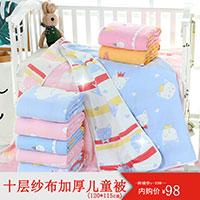
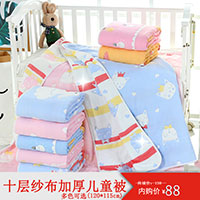
zx

Changed region(s): [[0.3, 0.96, 0.45, 1.0], [0.81, 0.9, 0.9, 0.99]]

diff --git a/quan/index.html b/quan/index.html
@@ -17,6 +17,132 @@
   <div class="m-prolist">
     <!---->
     <div class="prolist-item">
+      <a class="prolist-item-a" href="https://u.jd.com/qmD5YR">
+        <div class="prolist-cover">
+          <img src="images/blank.gif" data-echo="pics/101.jpg">
+        </div>
+        <div class="prolist-info">
+          <div class="prolist-title"><span class="jdico">JD</span>
+            美国EMSTARC旗下品牌，提拉紧肤按摩器，塑脸神器，去皱抗衰老，👊懒人甩脂机，去皱抗衰老，[红包]赠麦香水杯 
+          </div>
+          <div class="prolist-bottom">
+            <div class="prolist-grey">京东价 ¥199</div>
+            <div class="prolist-price">
+              <em class="priceicon"></em>¥<span class="int">799</span>
+            </div>
+            <div class="prolist-coupon">400元券</div>
+            <div class="time-end">结束 <span>02-22</span></div>
+          </div>
+        </div>
+      </a>
+    </div>
+    <!---->
+    <div class="prolist-item">
+      <a class="prolist-item-a" href="https://u.jd.com/rkEByV">
+        <div class="prolist-cover">
+          <img src="images/blank.gif" data-echo="pics/100.jpg">
+        </div>
+        <div class="prolist-info">
+          <div class="prolist-title"><span class="jdico">JD</span>
+            内购14元🉐纯棉打底运动女士背心，👍好评如潮，👯春夏季必备，时尚简约，百搭 性感显气质！ 
+          </div>
+          <div class="prolist-bottom">
+            <div class="prolist-grey">京东价 ¥39</div>
+            <div class="prolist-price">
+              <em class="priceicon"></em>¥<span class="int">14</span>
+            </div>
+            <div class="prolist-coupon">80元券</div>
+            <div class="time-end">结束 <span>02-23</span></div>
+          </div>
+        </div>
+      </a>
+    </div>
+    <!---->
+    <div class="prolist-item">
+      <a class="prolist-item-a" href="https://u.jd.com/aJJZG4">
+        <div class="prolist-cover">
+          <img src="images/blank.gif" data-echo="pics/099.jpg">
+        </div>
+        <div class="prolist-info">
+          <div class="prolist-title"><span class="jdico">JD</span>
+            品质剃须刀，亏本清仓，数量有限 ，便携方便，💝送男士，礼盒套装，贴合肌肤，👦不留一丝胡须，不伤一毫皮肤，三层云刀片，自由旋转！ 
+          </div>
+          <div class="prolist-bottom">
+            <div class="prolist-grey">京东价 ¥139</div>
+            <div class="prolist-price">
+              <em class="priceicon"></em>¥<span class="int">59</span>
+            </div>
+            <div class="prolist-coupon">80元券</div>
+            <div class="time-end">结束 <span>02-22</span></div>
+          </div>
+        </div>
+      </a>
+    </div>
+    <!---->
+    <div class="prolist-item">
+      <a class="prolist-item-a" href="https://u.jd.com/QkPw9F">
+        <div class="prolist-cover">
+          <img src="images/blank.gif" data-echo="pics/098.jpg">
+        </div>
+        <div class="prolist-info">
+          <div class="prolist-title"><span class="jdico">JD</span>
+            好评如潮！提速不止50%【手机无线充电】0.1秒取放💥红外线感应，适合任何车型，稳固不摇晃💞给你全新智能体验 
+          </div>
+          <div class="prolist-bottom">
+            <div class="prolist-grey">京东价 ¥228</div>
+            <div class="prolist-price">
+              <em class="priceicon"></em>¥<span class="int">138</span>
+            </div>
+            <div class="prolist-coupon">50元券</div>
+            <div class="time-end">结束 <span>02-20</span></div>
+          </div>
+        </div>
+      </a>
+    </div>
+    <!---->
+    <div class="prolist-item">
+      <a class="prolist-item-a" href="https://u.jd.com/xfe6tC">
+        <div class="prolist-cover">
+          <img src="images/blank.gif" data-echo="pics/005.jpg">
+        </div>
+        <div class="prolist-info">
+          <div class="prolist-title"><span class="jdico">JD</span>
+            6D环绕重低音，超强兼容，高清通话，入耳式，带麦适用小米vivo华为，吃鸡抖音K歌样样玩转自如
+          </div>
+          <div class="prolist-bottom">
+            <div class="prolist-grey">京东价 ¥39.9</div>
+            <div class="prolist-price">
+              <em class="priceicon"></em>¥<span class="int">19.9</span>
+            </div>
+            <div class="prolist-coupon">20元券</div>
+            <div class="time-end">结束 <span>02-23</span></div>
+          </div>
+        </div>
+      </a>
+    </div>
+    <!---->
+    <div class="prolist-item">
+      <a class="prolist-item-a" href="https://u.jd.com/K09C1W">
+        <div class="prolist-cover">
+          <img src="images/blank.gif" data-echo="pics/086.jpg">
+        </div>
+        <div class="prolist-info">
+          <div class="prolist-title"><span class="jdico">JD</span>
+            超大超厚超柔软儿童春秋盖毯，夏季空调被，纱布吸汗不油腻，👶保暖透气，面料越洗越柔软，平整面料不起球不褪色
+          </div>
+          <div class="prolist-bottom">
+            <div class="prolist-grey">京东价 ¥138</div>
+            <div class="prolist-price">
+              <em class="priceicon"></em>¥<span class="int">88</span>
+            </div>
+            <div class="prolist-coupon">50元券</div>
+            <div class="time-end">结束 <span>02-23</span></div>
+          </div>
+        </div>
+      </a>
+    </div>
+    <!---->
+    <div class="prolist-item">
       <a class="prolist-item-a" href="https://u.jd.com/JNiVR1">
         <div class="prolist-cover">
           <img src="images/blank.gif" data-echo="pics/097.jpg">
@@ -473,27 +599,6 @@
             </div>
             <div class="prolist-coupon">60元券</div>
             <div class="time-end">结束 <span>02-24</span></div>
-          </div>
-        </div>
-      </a>
-    </div>
-    <!---->
-    <div class="prolist-item">
-      <a class="prolist-item-a" href="https://u.jd.com/7plPRl">
-        <div class="prolist-cover">
-          <img src="images/blank.gif" data-echo="pics/086.jpg">
-        </div>
-        <div class="prolist-info">
-          <div class="prolist-title"><span class="jdico">JD</span>
-            超大超厚超柔软儿童春秋盖毯，夏季空调被，纱布吸汗不油腻，👶保暖透气，面料越洗越柔软，平整面料不起球不褪色
-          </div>
-          <div class="prolist-bottom">
-            <div class="prolist-grey">京东价 ¥138</div>
-            <div class="prolist-price">
-              <em class="priceicon"></em>¥<span class="int">98</span>
-            </div>
-            <div class="prolist-coupon">40元券</div>
-            <div class="time-end">结束 <span>02-22</span></div>
           </div>
         </div>
       </a>
@@ -2066,27 +2171,6 @@
               <em class="priceicon"></em>¥<span class="int">14.9</span>
             </div>
             <div class="prolist-coupon">15元券</div>
-            <div class="time-end">结束 <span>02-14</span></div>
-          </div>
-        </div>
-      </a>
-    </div>
-    <!---->
-    <div class="prolist-item" style="display:none">
-      <a class="prolist-item-a" href="https://u.jd.com/bwBonE">
-        <div class="prolist-cover">
-          <img src="images/blank.gif" data-echo="pics/005.jpg">
-        </div>
-        <div class="prolist-info">
-          <div class="prolist-title"><span class="jdico">JD</span>
-            6D环绕重低音，超强兼容，高清通话，入耳式，带麦适用小米vivo华为，吃鸡抖音K歌样样玩转自如
-          </div>
-          <div class="prolist-bottom">
-            <div class="prolist-grey">京东价 ¥39.9</div>
-            <div class="prolist-price">
-              <em class="priceicon"></em>¥<span class="int">19.9</span>
-            </div>
-            <div class="prolist-coupon">20元券</div>
             <div class="time-end">结束 <span>02-14</span></div>
           </div>
         </div>
